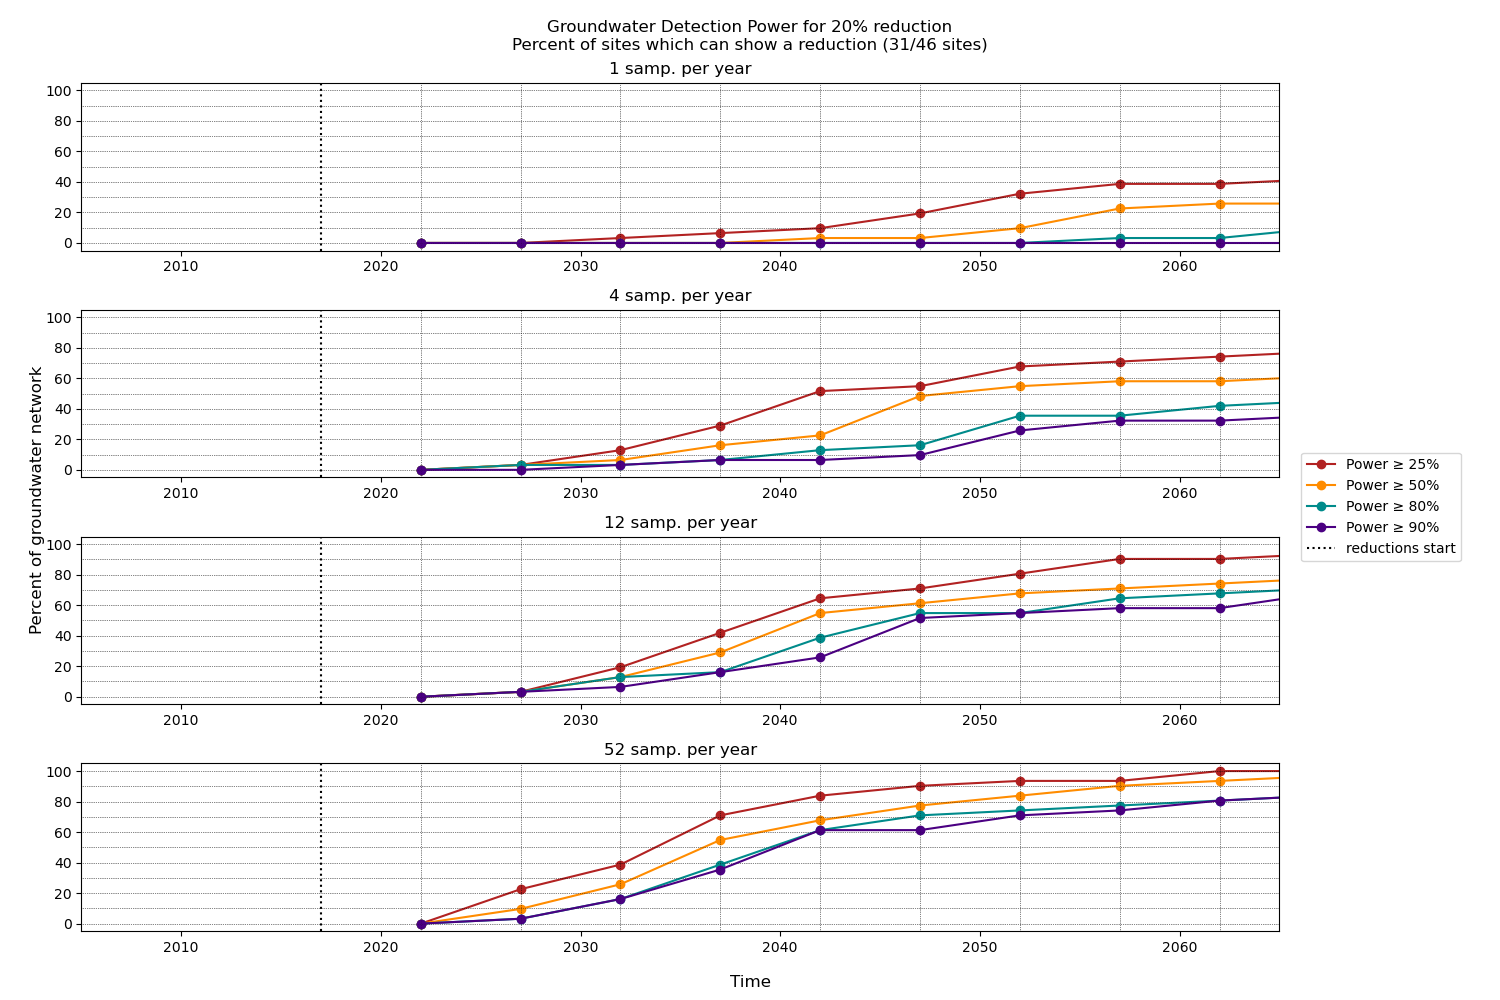
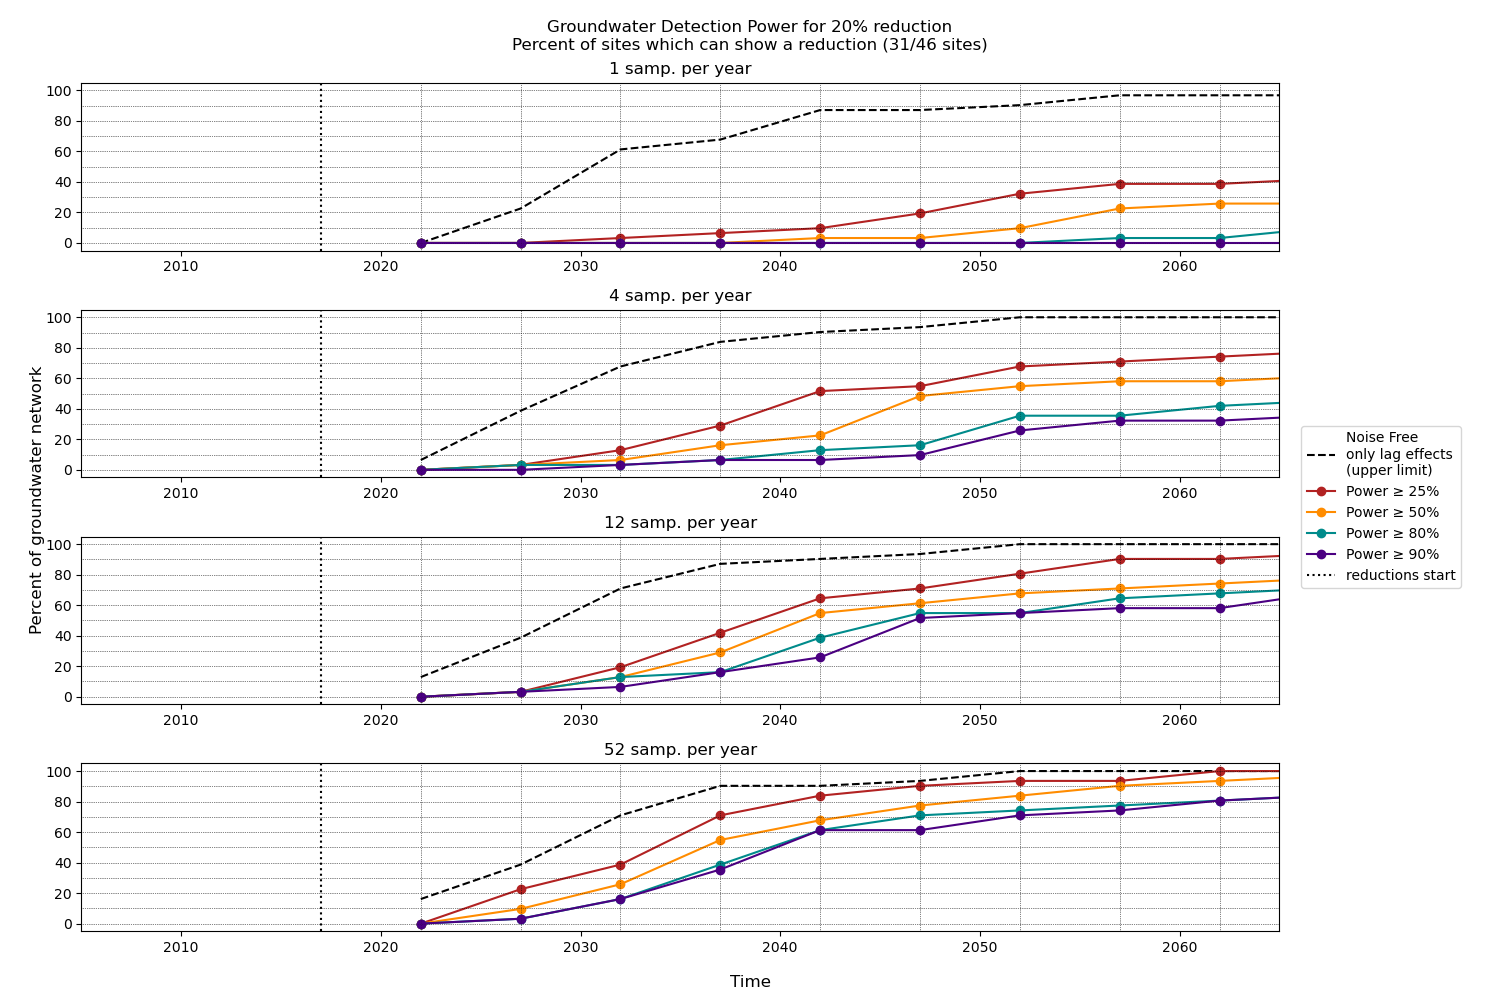
finish conclustions.tex

Changed region(s): [[0.8587, 0.434, 0.9813, 0.589]]

diff --git a/final_report_tex/custom_sections/results_discussion.tex b/final_report_tex/custom_sections/results_discussion.tex
@@ -42,11 +42,11 @@ These plateau sites can cause a significant challenge in detection of \gls{pc1} 
 
 Our use of a set of indicative \gls{mrt} values for surface water features allows us to easily demonstrate the importance of \gls{mrt} on both detection powers and steady state \gls{no3n} concentrations. \autoref{fig:sw_mrt} demonstrates the impact of assumed \gls{mrt} on the interpretation of the steady state concentration in Harts Creek.  Harts creek is a small spring-fed tributary of Te Waihora (Lake Ellesmere) on the southwestern side of the lake. There is a substantial historical record of increasing \gls{no3n} concentrations, but there is no evidence on the age of the water within the creek. Our simple source concentration modelling (see \autoref{subsec:detection_power_methods}) and the data prior to 2017 suggests that the peak steady state concentrations in the receptor (without reductions) could range between 7.6 to 12.0 mg/l \gls{no3n}.  This is a large range and the maximum and minimum values have significantly different levels of concern --- the maximum possible value is beyond the drinking water limit.  The uncertainty in the likely maximum peak concentration in this receptor could be significantly constrained with a relatively cost-effective \gls{mrt} sample.
 
+\kslfig {0.95\textwidth}{../figures/mrt_matters.png}{The impact of assumed \gls{mrt} on the steady state \gls{no3n} concentrations and the potential to detect \gls{pc1} reductions}{sw_mrt}
+
 Additionally, the \gls{mrt} has a significant implication on the ability to detect \gls{pc1} \gls{no3n} reductions. If the \gls{mrt} is relatively low (5-10 years) then it is feasible to detect \gls{pc1} reductions by 2032 with current (monthly) or slightly higher sampling frequency; however a higher \gls{mrt} of 20 years significantly reduces detectability. With a \gls{mrt} of 30 years, \gls{pc1} reductions are unlikely to result in a decrease in \gls{no3n} concentrations (see \autoref{sec:plateau_results}) relative to their 2017 concentrations. Note that the counterintuitive result that the detection power with \gls{mrt} of 5 years is lower than that of \gls{mrt} 10 years is discussed in \autoref{box:wierdresults}.
 
 Finally, we must comment that our method for detecting the maximum concentration is fairly simplistic and is likely to be biased.  Further, more complex, statistical analysis could provide a much better estimate of the likely maximum concentration. Such analysis is beyond the scope of this report; however, the results here do demonstrate the importance of \gls{mrt} on the interpretation of the steady state concentration and the detection power of \gls{pc1} reductions.
-
-\kslfig {0.95\textwidth}{../figures/mrt_matters.png}{The impact of assumed \gls{mrt} on the steady state \gls{no3n} concentrations and the potential to detect \gls{pc1} reductions}{sw_mrt}
 
 %--------------------------------------------------------------------------------------------------------------
 \subsection[network detection power]{Network Level Detection Power} \label{sec:network_results}
@@ -73,7 +73,7 @@ These results are consistent with the observation that very few wells in the cat
 %--------------------------------------------------------------------------------------------------------------
 \subsection[counterfactual approach]{The benefits of a counterfactual approach} \label{sec:counterfactual}
 
-The analysis presented here is designed to answer the question: ``How long will it take to detect any reduction in \gls{no3n} at our existing receptor?`` This is a useful question, but it is not the only question that can be asked. For example, we could ask: ``How long will it take to detect a full implementation of \gls{pc1} 20\% reduction in \gls{no3n} at our existing receptor?`` or ``How long before we can tell that we are on track for at least a 10\% reduction in a well's source zone has been implemented?``.
+The analysis presented here is designed to answer the question: ``How long will it take to detect any reduction in \gls{no3n} at our existing receptor? `` This is a useful question, but it is not the only question that can be asked. For example, we could ask: ``How long will it take to detect a full implementation of \gls{pc1} 20\% reduction in \gls{no3n} at our existing receptor? `` or ``How long before we can tell that we are on track for at least a 10\% reduction in a well's source zone has been implemented? ``. % todo not being rendered correctly
 These questions require a different statistical approach --- a counterfactual approach. Essentially, the question answered by a counterfactual approach is: ``How long until we are confident that pathway 1 and pathway 2 are significantly different?`` Unfortunately a counterfactual approach has not yet been implemented in the groundwater detection power calculator %todo cite package
 ; however, the development of this will likely be completed in 2024. It is worth noting that any uncertainty in the `true` source concentration, which is typically uncertain, is more likely to yield additional uncertainty in the counterfactual detection power as the absolute difference between two pathways is important while only the relative change is necessary for the `reduction` detection power.
 
@@ -88,6 +88,6 @@ Instead, we suggest that the best approach to improve the unambiguous detection 
 \begin{enumerate}
     \item Increase the certainty of the \gls{mrt} estimates in groundwater detection network; only c. 30\% of groundwater sites had a \gls{mrt} assessment (e.g., via tritium).  The remaining 60\% were estimated from nearby wells, which introduces a significant amount of uncertainty. Further age assessments would significantly improve the certainty of the network's detection power and allow increased frequency sampling to occur at sites which are likely to detect the change.
     \item Increase sampling at sites that this analysis (or additional analysis with additional \gls{mrt} assessments) show a suitably high probability of detecting \gls{pc1} reductions. %todo below cite olw guidance doc
-    \item similar to 1. the surface water network has a significant amount of information about the catchment and acts as an integrate which alleviates some of the challenges of the spatial representativeness of the groundwater network (); however the utility of this information is sabotaged by the lack of \gls{mrt} assessments. Understanding the age distribution and the relationship between the age distribution and river/stream stage/flow would unlock the power of these sites.
+    \item similar to 1. the surface water network has a significant amount of information about the catchment and acts as an integrate which alleviates some of the challenges of the spatial representativeness of the groundwater network (CITE); however the utility of this information is sabotaged by the lack of \gls{mrt} assessments. Understanding the age distribution and the relationship between the age distribution and river/stream stage/flow would unlock the power of these sites.
     \item Finally, more sophisticated statistical analysis could be used to extract more information from the existing data without waiting decades for additional information.
 \end{enumerate}

diff --git a/final_report_tex/custom_sections/conclustions.tex b/final_report_tex/custom_sections/conclustions.tex
@@ -5,13 +5,24 @@
 
 We conclude that:
 \begin{itemize}
-    \item %todo
-    \item
+    \item The lack of observed reductions in \gls{no3n} across the Selwyn Waihora catchment is not inconsistent with full implementation of \gls{pc1} reductions.
+    \item With a full 20\% reduction in \gls{no3n} loads in the source area only 66\% of the groundwater wells assessed are likely to have decreasing \gls{no3n} concentrations from 2017 concentrations. The reductions in the other 33\% will simply achieve a lower steady state concentration.
+    \item If we assume that dairy farms only make up 50\% of every source area then we would only expect decreasing concentrations from 2017 levels in 52\% of monitoring wells.
+    \item With the current monitoring network and the current quarterly sampling, reductions should be detectable in c. 50\% of the monitoring wells by 2062, increasing sampling frequencies to monthly or weekly would allow detection of the reductions in c. 50\% of the monitoring wells by 2042 or 2037, respectively. Recall that these estimates exclude the 33\% of wells which will simply achieve a lower steady state concentration.
+    \item The lack of \gls{mrt} assessments in the surface water features precludes a robust assessment of the detection power of the surface water features. However, we have produced estimates of the detection power assuming a range of \gls{mrt} values.
+    \item Assessments of \gls{mrt} in surface water features can also help to constrain the likely maximum \gls{no3n} concentration in a stream that will arise from current and past land use.
+    \item The current groundwater monitoring frequency likely provides as significant a barrier to the detection of reductions than the intrinsic lag of the groundwater system.
+    \item The current monitoring network is not well suited to the detection of reductions in \gls{no3n} concentrations in the Selwyn Waihora catchment.
 \end{itemize}
 
 \section[Recommendations]{Recommendations} \label{sec:recommendations}
 
-Based on the work presented here we recommend the following:
+Based on the work presented here we recommend the following to improve the likelihood of detecting reductions in \gls{no3n} concentrations in the Selwyn Waihora catchment:
 \begin{itemize}
-    \item %todo
+    \item Additional \gls{mrt} assessments should be undertaken in the Selwyn Waihora catchment to better constrain the detection power and the likely maximum \gls{no3n} concentration in streams and groundwater wells that will arise from current and past land use.
+    \item \gls{mrt} assessments should be prioritised for the spring fed streams as these are the most sensitive receptors and act as integrators of the catchment.
+    \item Once the \gls{mrt} assessments are complete, the detection power of the surface water features and any groundwater monitoring locations with new \gls{mrt} values should be re-assessed.
+    \item Increasing the sampling frequency is essential to improve the detection power of the monitoring network. We recommend that targeted sites undergo higher frequency monitoring in order to meet detection timeline requirements. Once higher frequency data is available the detection power of these sites should be re-evaluated eo ensure that the novel data does not affect the detection power.
+    \item Additional monitoring wells which target young waters may be useful; however there is a risk that new young wells may already be at or near steady state which would confound the detection of \gls{pc1} reductions. Minimally the network should be reviewed and likely expanded prior to any further mandated reduction.
+    \item More sophisticated statistical analysis could and should be used to extract additional information from the existing data
 \end{itemize}

diff --git a/detection_power/plot_individual_detection_plots.py b/detection_power/plot_individual_detection_plots.py
@@ -245,6 +245,7 @@ def plot_well_overview_red(outpath, reduction):
     fig.supylabel('Percent of groundwater network')
     metadata = get_n_metadata()
     detect_noisy = pd.concat([get_no_trend_detection_power(), get_trend_detection_power()])
+    detect_not_noisy = pd.concat([get_no_trend_detection_power_no_noise(), get_trend_detection_power_no_noise()])
 
     sites = metadata.loc[metadata.type != 'stream'].index
     sites = sites[np.in1d(sites, get_final_sites())]
@@ -259,6 +260,22 @@ def plot_well_overview_red(outpath, reduction):
                  f'Percent of sites which can show a reduction ({len(sites)}/{ngw_sites} sites)')
     for i, (power_ax, freq) in enumerate(zip(power_axs, samp_freqs)):
         power_ax.set_title(f'{freq} samp. per year')
+
+        # not noisy
+        plt_data = []
+        for d in samp_durs:
+            idx = (
+                    np.in1d(detect_not_noisy['site'], sites)
+                    & (detect_not_noisy['samp_years'] == d)
+                    & (detect_not_noisy['samp_per_year'] == abs(freq))
+                    & (detect_not_noisy['reduction'] == reduction)
+            )
+            assert idx.sum() == len(sites)
+            idx = idx & (detect_not_noisy['power'] >= 80)
+            plt_data.append(idx.sum() / len(sites) * 100)
+
+        power_ax.plot(use_samp_durs, plt_data, ls='--', label=f'Noise Free\nonly lag effects\n(upper limit)', c='k')
+
         for pl, c in zip(percent_limits, colors):
             plt_data = []
             for d in samp_durs:

diff --git a/final_report_tex/final_report.tex b/final_report_tex/final_report.tex
@@ -312,7 +312,7 @@
 
     % List of abbreviations/definitions
     \addcontentsline{toc}{subsection}{Definitions and Abreviations} \label{sec:defs}
-    \printglossary[title=Definitions and Abreviations, nonumberlist]
+    \printglossary[title=Definitions and Abreviations, nonumberlist]  % todo wrap long glossary terms
 
     \newpage
 
@@ -349,3 +349,7 @@
     \input{custom_sections/appendix}
 
 \end{document}
+
+
+% todo capitalize all subsection names in the header! (or full caps)
+% todo can we make the capitalisation of sections consistent?
